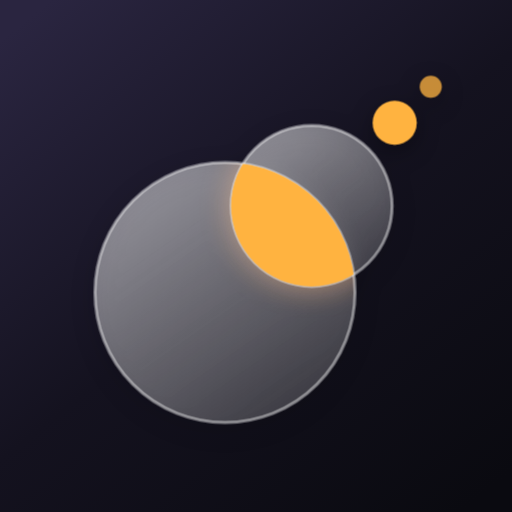
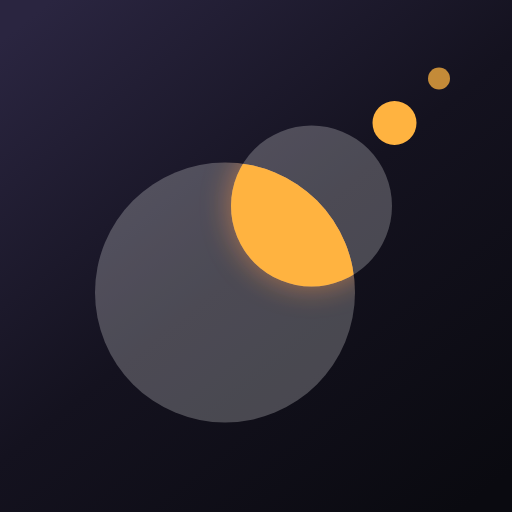
Design-Review 2 umgesetzt
- App-Icon: flache Glaslinsen ohne Rand/Verlauf, orange Schnittmenge (wie das Hub-Logo)
- Logo gibt beim Antippen nach; kein aria-pressed mehr, damit VoiceOver den versteckten Modus nicht verrät
- Perle der Wortmarke im hellen Modus sichtbar (Grau statt Weiß)
- Große Schrift: zwei Spalten statt bildschirmbreiter Kacheln, Namen brechen vollständig um
- Versehentlich mitgeschickte Test-Screenshots aus public/ entfernt

Claude-Session: https://claude.ai/code/session_01UTpB7kvMmULesxivCFinu3

diff --git a/public/index.html b/public/index.html
@@ -146,8 +146,12 @@
     .brand-mark .bm-move { transform: translate(150px, -150px); transition: transform 0.6s cubic-bezier(0.3, 1.45, 0.5, 1); }
     /* Kein Ein-/Ausblenden: gefärbt ist immer genau die Schnittmenge – sie wächst und schrumpft beim Gleiten */
     .brand-mark .bm-perls { fill: rgba(255, 255, 255, 0.35); }
-    .brand-mark[aria-pressed="true"] .bm-move { transform: none; }
-    .brand-mark[aria-pressed="true"] .bm-perls { fill: #ffb340; }
+    .brand-mark[data-on="true"] .bm-move { transform: none; }
+    .brand-mark[data-on="true"] .bm-perls { fill: #ffb340; }
+    /* Antippen sichtbar machen, ohne etwas zu verraten */
+    .brand-mark { transition: scale 0.18s cubic-bezier(0.3, 1.5, 0.6, 1); }
+    .brand-mark:active { scale: 0.9; }
+    @media (prefers-color-scheme: light) { html:not([data-drink-all="on"]) .wordmark .perl { background: rgba(60, 60, 67, 0.28); } }
     .brand-mark .bm-perls { transition: fill 0.35s 0.25s, transform 0.6s cubic-bezier(0.3, 1.45, 0.5, 1); }
     .wordmark .perl { transition: background 0.35s, box-shadow 0.35s; }
     html:not([data-drink-all="on"]) .wordmark .perl { background: rgba(255, 255, 255, 0.3); box-shadow: none; }
@@ -162,9 +166,9 @@
     .brand-mark { width: 44px; height: 44px; border-radius: 10px; }
     .wordmark { font-size: 2.125rem; }
     .hero-sub { margin: 4px 4px 22px; font-size: 0.94rem; }
-    .covers { grid-template-columns: repeat(auto-fill, minmax(min(100%, 6.2em), 1fr)); gap: 16px 12px; }
+    .covers { grid-template-columns: repeat(auto-fill, minmax(min(6.2em, 45%), 1fr)); gap: 16px 12px; } /* große Schrift: zwei statt drei Spalten */
     .cover { border-radius: 10px; box-shadow: 0 6px 18px rgba(0, 0, 0, 0.4); }
-    .covers .cover-card > b { margin-top: 7px; hyphens: auto; -webkit-hyphens: auto; text-align: center; font-size: 0.88rem; font-weight: 400; line-height: 1.25; white-space: normal; display: -webkit-box; -webkit-line-clamp: 2; -webkit-box-orient: vertical; overflow: hidden; }
+    .covers .cover-card > b { margin-top: 7px; hyphens: auto; -webkit-hyphens: auto; text-align: center; font-size: 0.88rem; font-weight: 400; line-height: 1.25; white-space: normal; }
     /* Kachel-Inhalt wächst mit der Kachel (cqw), damit nichts zu groß wird oder überlappt */
     .badge-live { left: 5cqw; top: 5cqw; padding: 1.6cqw 4cqw; font-size: max(11px, 7cqw); line-height: 1.1; }
     .badge-live::before { width: 4.5cqw; height: 4.5cqw; margin-right: 2.5cqw; vertical-align: 0.1em; }
@@ -198,7 +202,7 @@
 <body>
 <main>
   <div class="brand">
-    <button type="button" class="brand-mark" id="drinkMark" aria-pressed="false" aria-label="Klirr">
+    <button type="button" class="brand-mark" id="drinkMark" aria-label="Klirr">
       <svg viewBox="0 0 1024 1024" aria-hidden="true">
         <defs>
           <linearGradient id="bmBg" x1="0.1" y1="0" x2="0.9" y2="1"><stop offset="0" stop-color="#2a2540"/><stop offset=".5" stop-color="#14121f"/><stop offset="1" stop-color="#0a0a10"/></linearGradient>
@@ -390,7 +394,7 @@
   const drinkAll = () => { try { return localStorage.getItem('klirr-drink:all') === '1'; } catch { return false; } };
   function showDrink(on) {
     const m = $('drinkMark');
-    m.setAttribute('aria-pressed', String(on));
+    m.dataset.on = String(on); // bewusst kein aria-pressed: VoiceOver soll den Modus nicht verraten
     m.setAttribute('aria-label', 'Klirr');
     document.documentElement.dataset.drinkAll = on ? 'on' : 'off';
     document.documentElement.dataset.drink = on ? 'on' : 'off';
